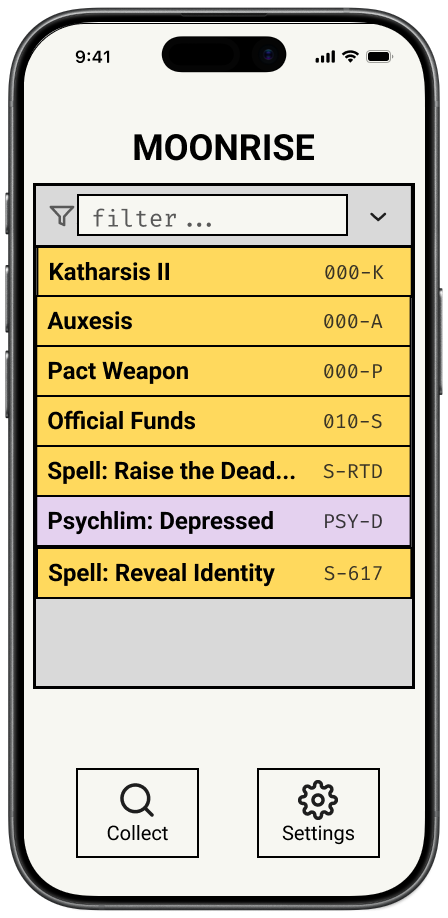
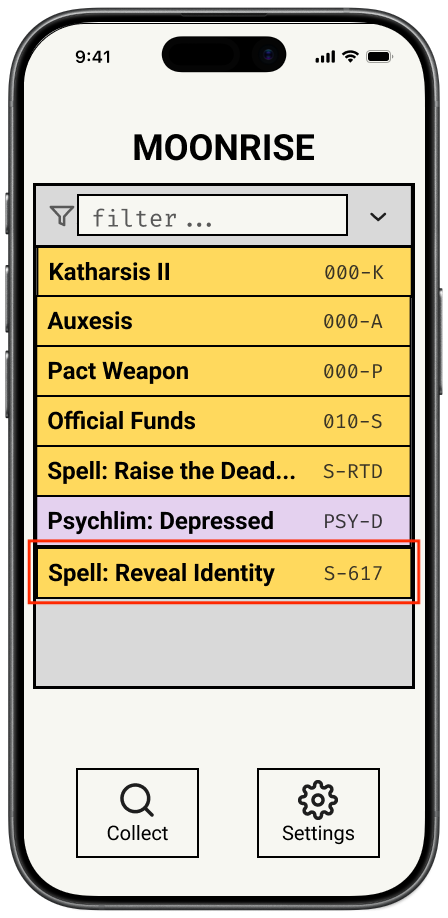
edited demo 3

Changed region(s): [[0.0625, 0.5795, 0.9375, 0.671]]

diff --git a/README.md b/README.md
@@ -36,7 +36,7 @@ Or maybe when you had finally completed your glorious evolution and opened the l
 
 You're 3 buildings away and busy unlocking the powers of the universe, thank you very much.
 
-With your personalized Bag of Holding, this is what your trip to the GM room looks like:
+But now, armed with your personalized Bag of Holding, this is what your trip to the GM room looks like:
 
 **Step 1: Click a button**
 
